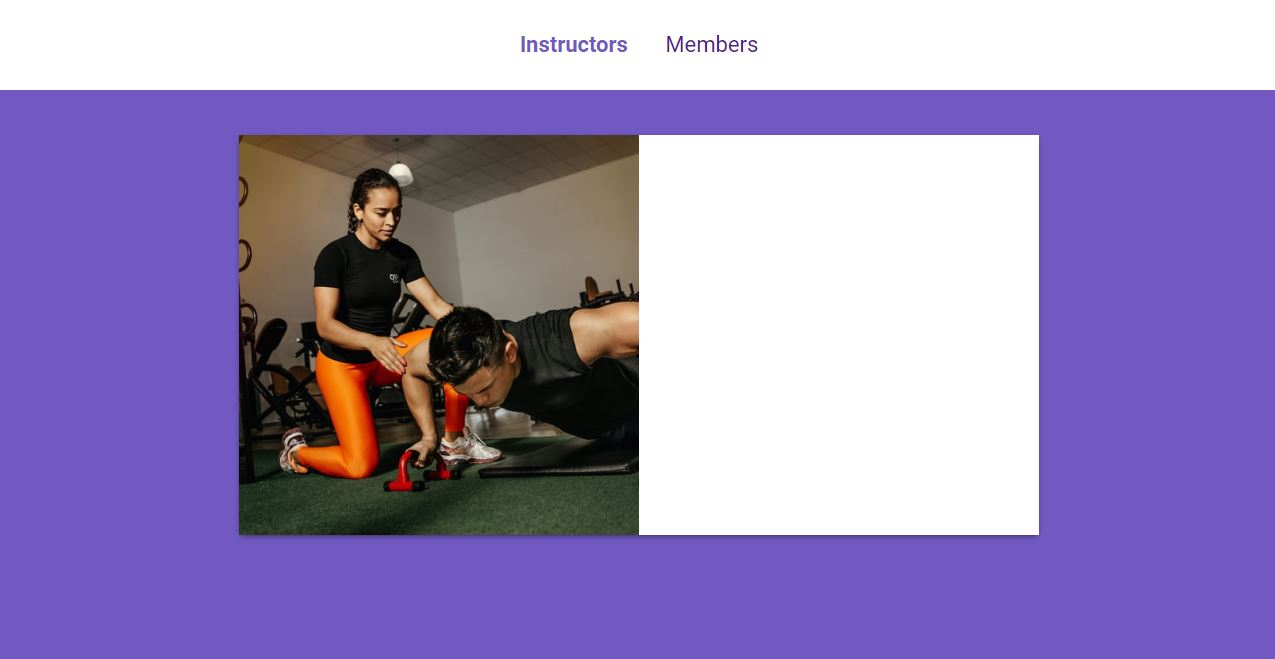
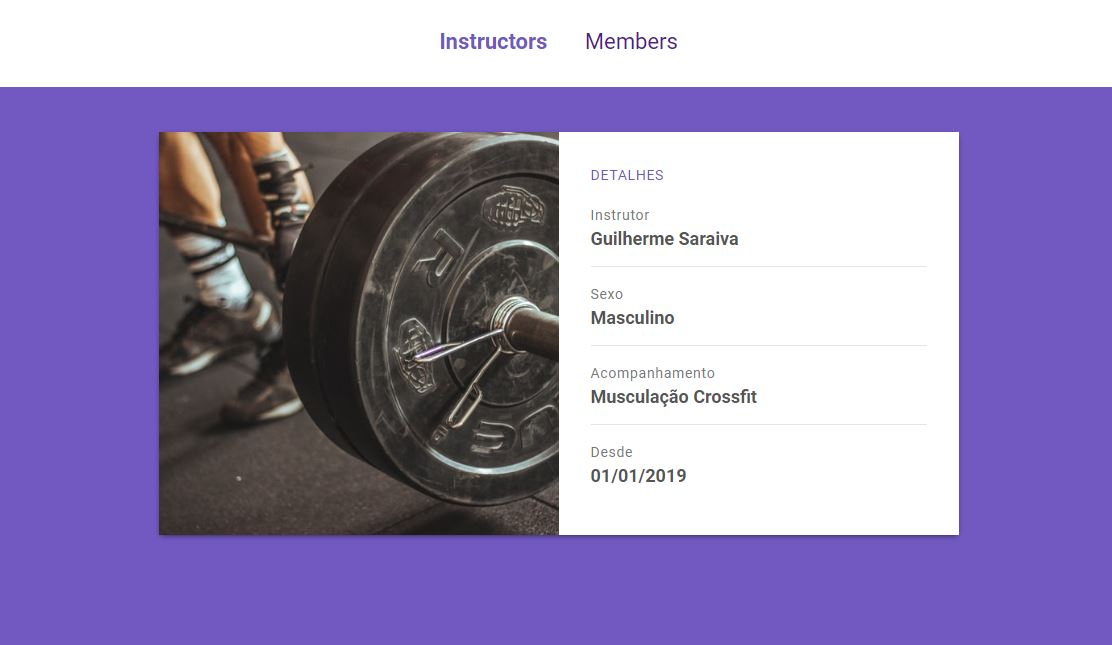
uptade data structors and update screenshot page main

Changed region(s): [[0.1223, 0.186, 0.8867, 0.8372], [0.3975, 0.031, 0.4892, 0.093], [0.5198, 0.031, 0.6115, 0.093]]

diff --git a/public/style.css b/public/style.css
@@ -66,7 +66,7 @@ header {
 .card {
     background-color: #fff;
     width: 800px;
-    height: 400px;
+    min-height: 400px;
     margin: 45px auto;
     display: grid;
     grid-template-columns: 1fr 1fr;
@@ -85,4 +85,40 @@ header {
     to {
         opacity: 1;
     }
+}
+
+/* DETALHES */
+
+.details {
+    padding: 32px;
+}
+
+.details .item {
+    border-bottom: 1px solid rgba(0, 0, 0, 0.1);
+    padding: 16px 0;
+}
+
+.details .item:last-child {
+    border: none;
+}
+
+.details h3,
+.details .item div:nth-child(1) {
+    color:#777;
+    font-weight: normal;
+    font-size: 14px;
+    line-height: 24px;
+    letter-spacing: 0.7px;
+}
+
+
+.details .item div:nth-child(2) {
+    color:#555;
+    font-weight: bold;
+    font-size: 18px;
+}
+
+.details h3 {
+    text-transform: uppercase;
+    color: var(--primary-color);
 }
